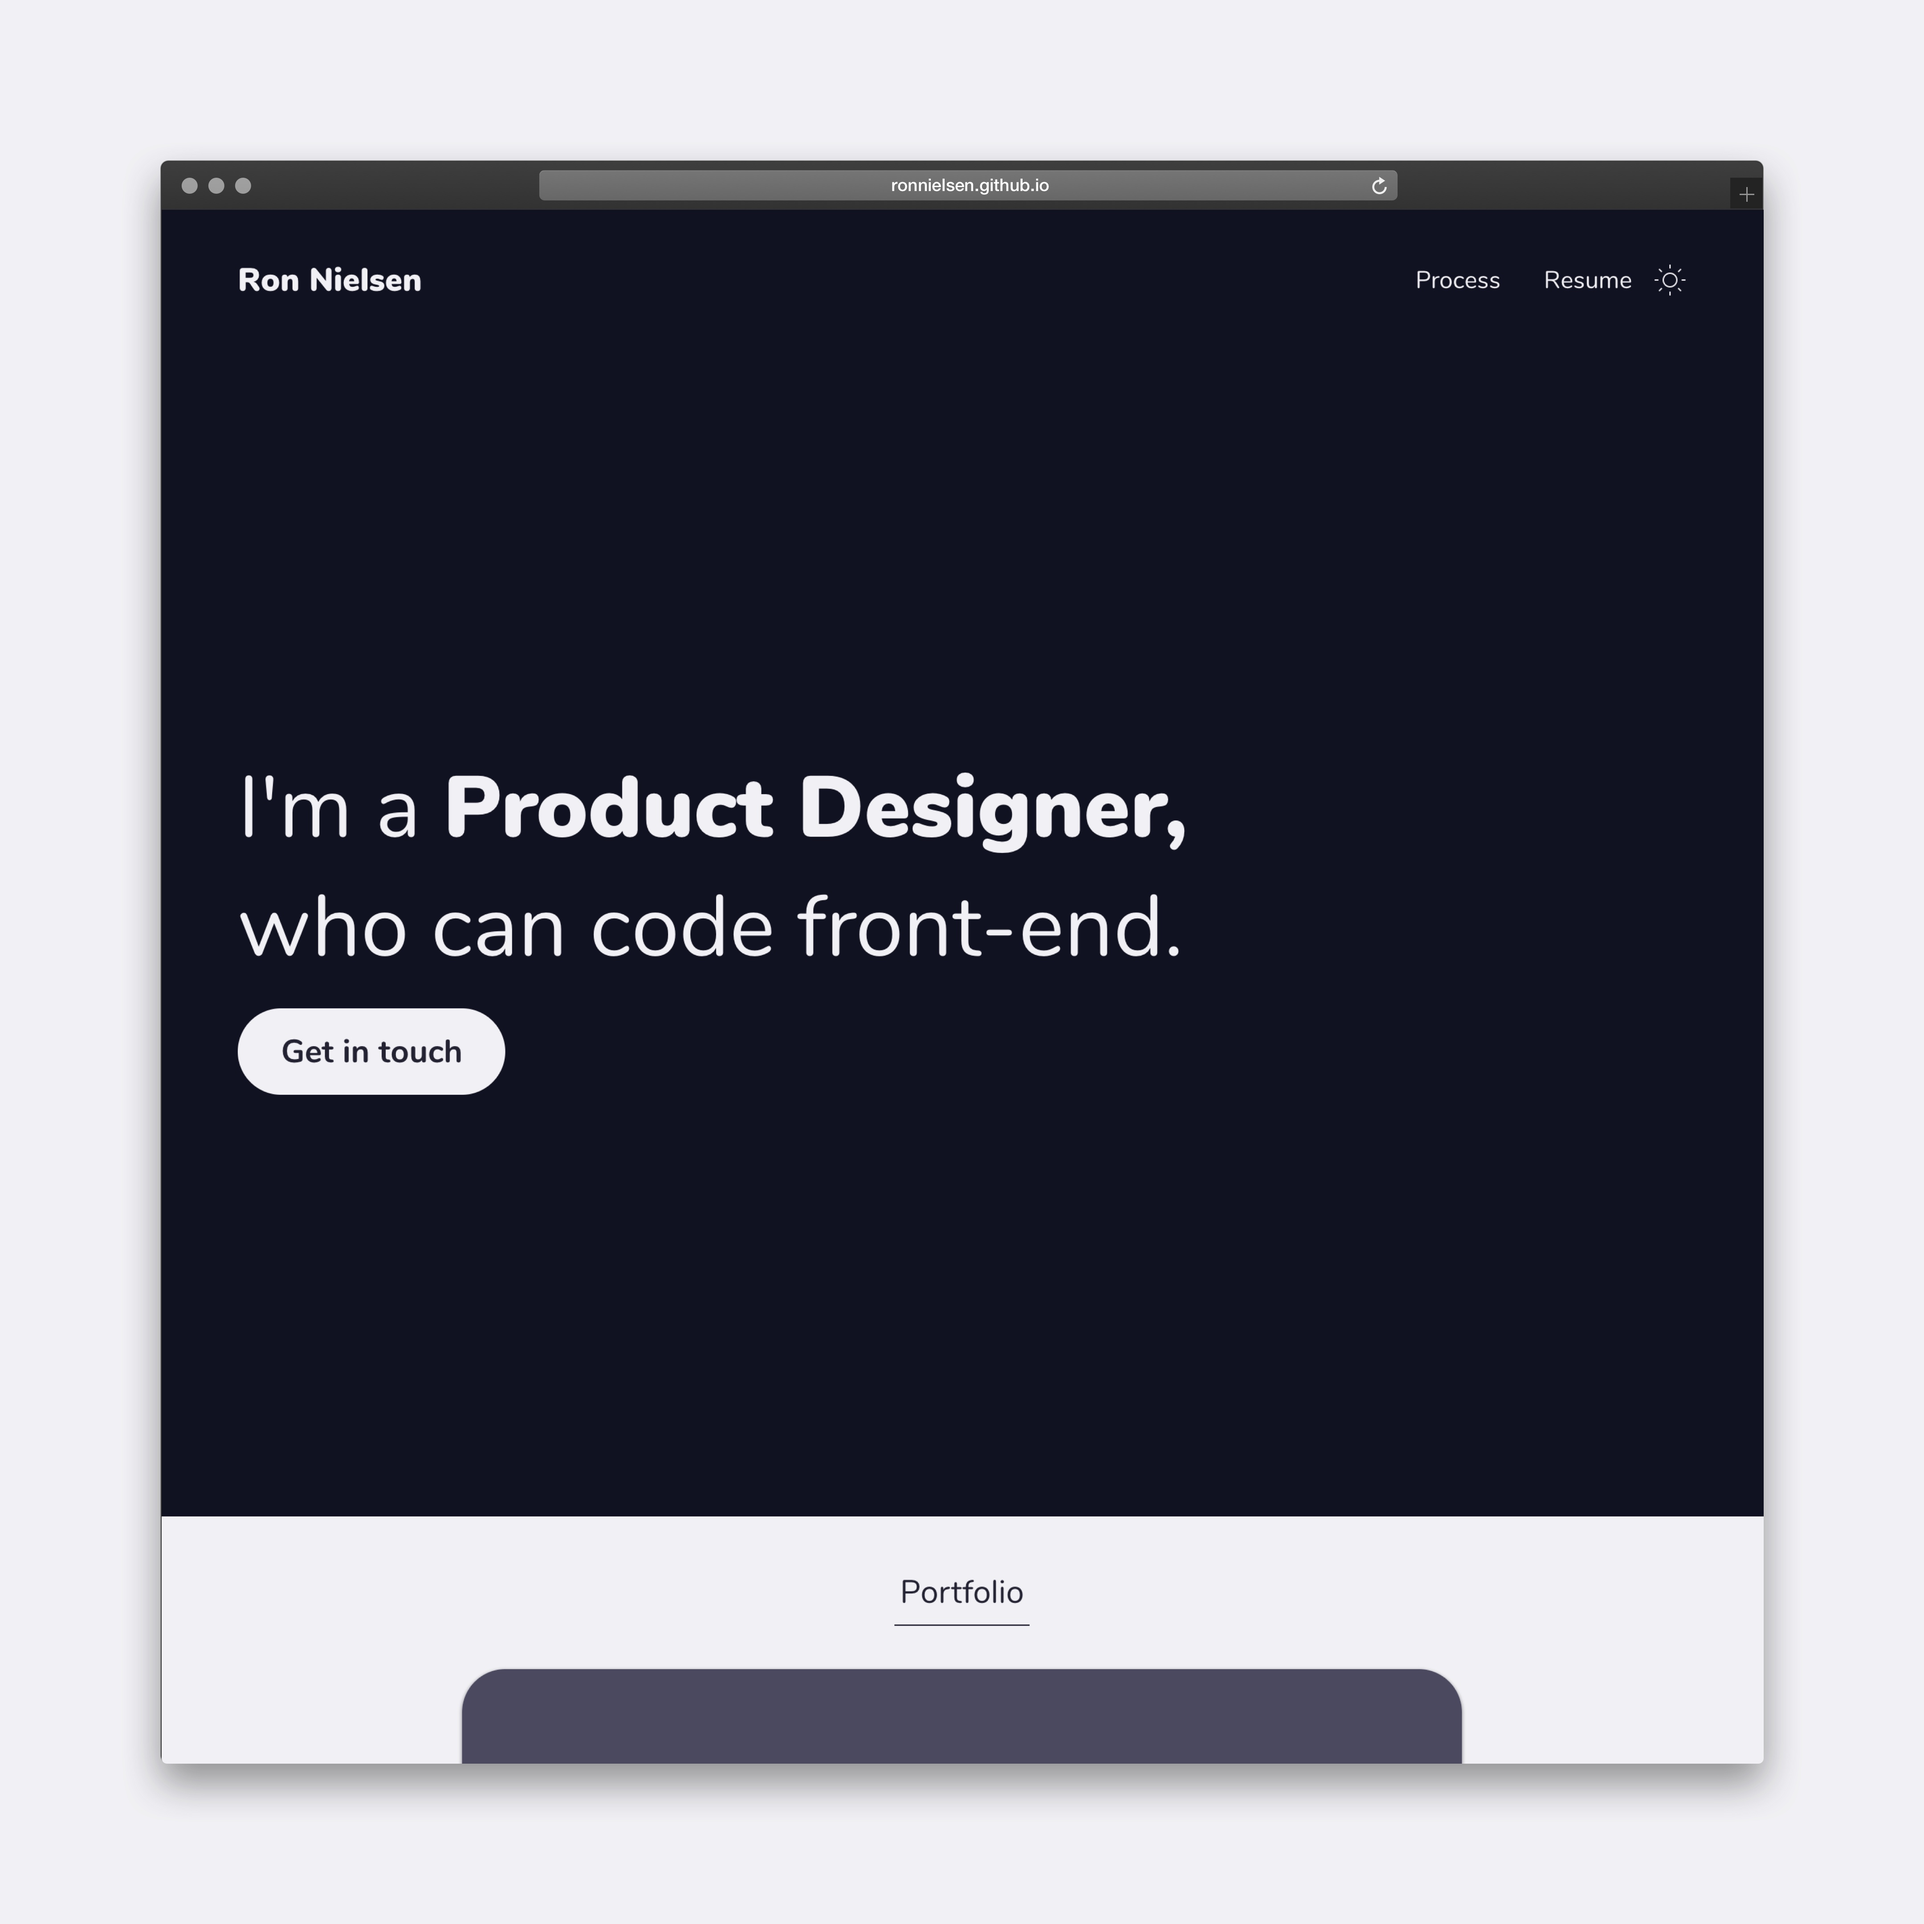
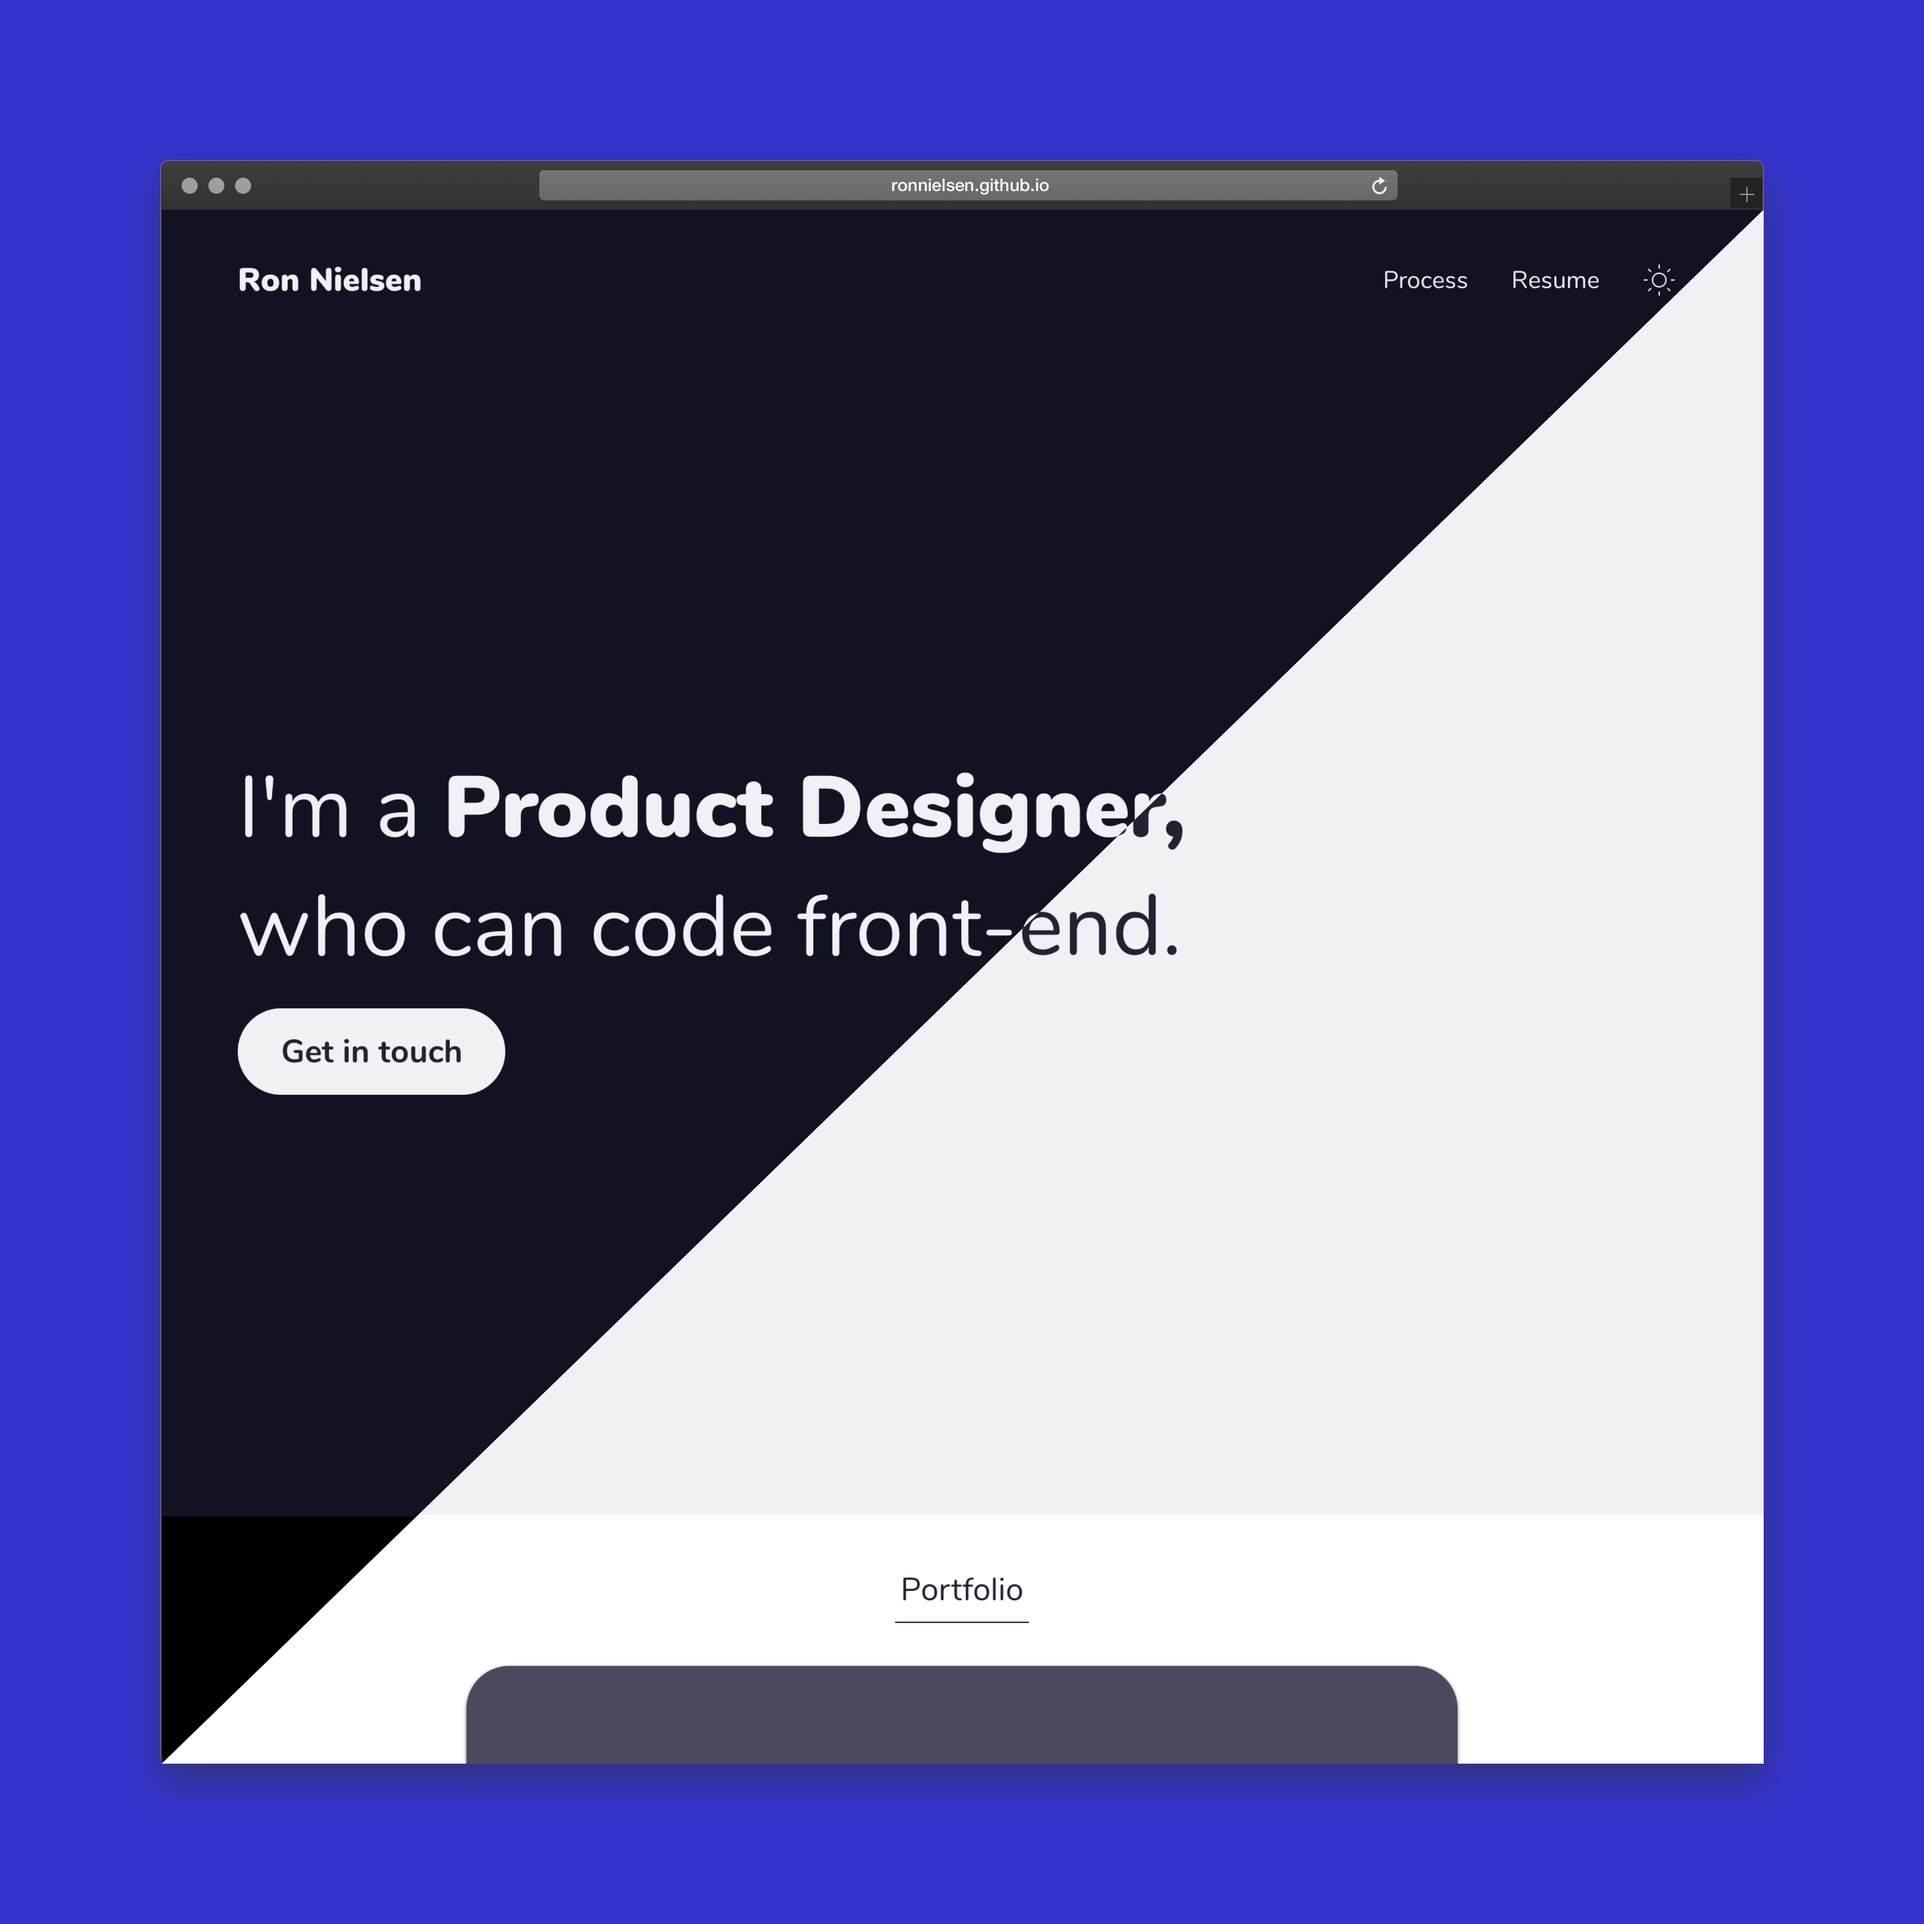
Updates to dark mode theme, and portfolio image

diff --git a/src/components/molecules/Header.js b/src/components/molecules/Header.js
@@ -17,7 +17,7 @@ const Container = styled(Div)`
 `;
 
 const StyledLink = styled(Link)`
-  color: ${p => p.theme.colors.lightText};
+  color: ${p => p.theme.colors.text};
   display: flex;
   align-items: center;
   text-decoration: none;
@@ -27,8 +27,8 @@ const StyledLink = styled(Link)`
   line-height: 24px;
   font-size: 18px;
   &:hover {
-    background: ${p => p.theme.colors.light};
-    color: ${p => p.theme.colors.text};
+    background: ${p => p.theme.colors.dark};
+    color: ${p => p.theme.colors.lightText};
     transition-duration: 500ms;
   }
   @media (max-width: 767px){
@@ -38,7 +38,7 @@ const StyledLink = styled(Link)`
 
 const Name = styled(Link)`
   font-size: 24px;
-  color: ${p => p.theme.colors.lightText};
+  color: ${p => p.theme.colors.text};
   flex: 1;
   font-weight: 900;
   text-decoration: none;
@@ -47,15 +47,25 @@ const Name = styled(Link)`
   }
 `;
 
+const Mode = styled(Div)`
+  border-radius: 45px;
+  padding: 8px;
+  background: ${p => p.theme.colors.light};
+  &:hover {
+    background: ${p => p.theme.colors.dark};
+    color: ${p => p.theme.colors.light};
+  }
+`;
+
 function Header(props) {
   return (
-    <Container bg="dark" color="lightText" p="xs">
+    <Container bg="light" color="dark" p="xs">
       <Name to="/">Ron Nielsen</Name>
       <StyledLink to="/process">Process</StyledLink>
       <StyledLink to="/resume">Resume</StyledLink>
-      <Div onClick={() => props.themeToggler()}>
+      <Mode ml="8px" onClick={() => props.themeToggler()}>
       {props.theme === 'light' ? (<Icon name="Moon"/>) : (<Icon name="Sun"/>)}
-      </Div>
+      </Mode>
     </Container>
   );
 }

diff --git a/src/components/organisms/Hero.js b/src/components/organisms/Hero.js
@@ -21,8 +21,8 @@ function Hero() {
 
   const Hero = styled(Div)`
     height: 75vh;
-    background: ${p => p.theme.colors.dark};
-    color: ${p => p.theme.colors.lightText};
+    background: ${p => p.theme.colors.light};
+    color: ${p => p.theme.colors.text};
     display: flex;
     justify-content: center;
     flex-direction: column;
@@ -39,7 +39,6 @@ function Hero() {
     transition-duration: 500ms;
     font-weight: 400;
     padding: 64px;
-    animation: ${fadeIn} 500ms linear;
     @media(max-width: 767px){
         padding: 32px;
     }
@@ -50,11 +49,11 @@ function Hero() {
     padding: ${p => p.theme.space.xs} ${p => p.theme.space.md};
     border-radius: 45px;
     margin-left: 0px;
-    background: ${p => p.theme.colors.light};
-    color: ${p => p.theme.colors.text};
+    background: ${p => p.theme.colors.dark};
+    color: ${p => p.theme.colors.lightText};
     &:hover {
       background: ${p => p.theme.colors.success};
-      color: ${p => p.theme.colors.lightText};
+      color: ${p => p.theme.colors.white};
       transition-duration: 250ms;
     }
     @media(max-width: 767px){

diff --git a/src/components/organisms/Portfolio.js b/src/components/organisms/Portfolio.js
@@ -1,23 +1,14 @@
 import React from 'react'
 import { Div, Icon, Link } from '../atoms'
 import { Preview } from '../molecules'
-import styled, {keyframes} from 'styled-components'
-
-const fadeIn = keyframes`
-from {
-  opacity: 0;
-}
-to {
-  opacity: 1;
-}
-`;
+import styled from 'styled-components'
 
 function Portfolio() {
   const Section = styled(Div)`
     width: 100%;
     align-items: center;
     justify-content: center;
-    background: ${p => p.theme.colors.light};
+    background: ${p => p.theme.colors.white};
     text-align: center;
     line-height: 48px;
     flex-direction: column;
@@ -55,7 +46,6 @@ function Portfolio() {
     min-height: 100%;
     object-fit: cover;
     transition-duration: 250ms;
-    animation: ${fadeIn} 500ms linear;
     @media(max-width: 768px){
       height: 420px;
     }

diff --git a/src/App.js b/src/App.js
@@ -11,7 +11,7 @@ import { ThemeProvider } from 'styled-components';
 import {lightTheme, darkTheme} from './theme';
 
 function App(props) {
-  const [theme, setTheme] = useState('light')
+  const [theme, setTheme] = useState('dark')
   const themeToggler = () => {
     theme === 'light' ? setTheme('dark') : setTheme('light');
   };

diff --git a/src/theme.js b/src/theme.js
@@ -91,8 +91,8 @@ export const darkTheme = {
         light: '#111121',
         black: '#FFFFFF',
         white: '#000000',
-        background: '#000000',
-        fill: '#4A495F',
+        background: '#111121',
+        fill: '#111121',
         grey: '#AAAAB9',
         primary: '#3333CC',
         secondary: '#4A495F',

diff --git a/src/components/molecules/Preview.js b/src/components/molecules/Preview.js
@@ -37,7 +37,7 @@ const Container = styled(Div)`
 
 const Details = styled(Div)`
   width: 100%;
-  background: ${p => p.theme.colors.white};
+  background: ${p => p.theme.colors.background};
   color: ${p => p.theme.colors.text};
   display: flex;
   flex-direction: column;

diff --git a/src/components/pages/Home.js b/src/components/pages/Home.js
@@ -13,6 +13,8 @@ to {
 `;
 
 const Container = styled(Div)`
+  padding-bottom: 48px;
+  background: ${p => p.theme.colors.white}
 `;
 
 const ToTop = styled(Div)`
